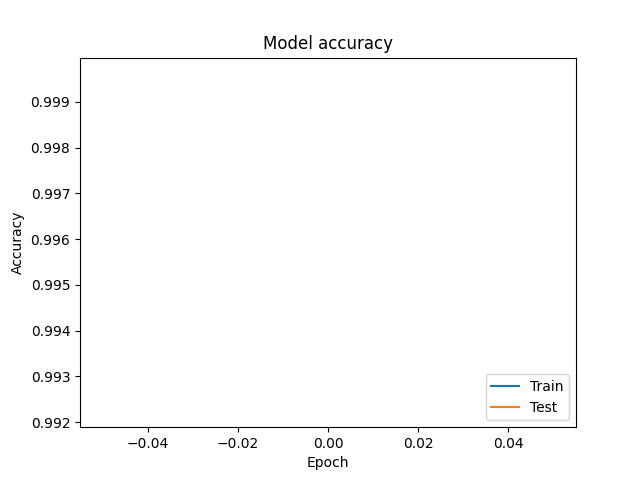
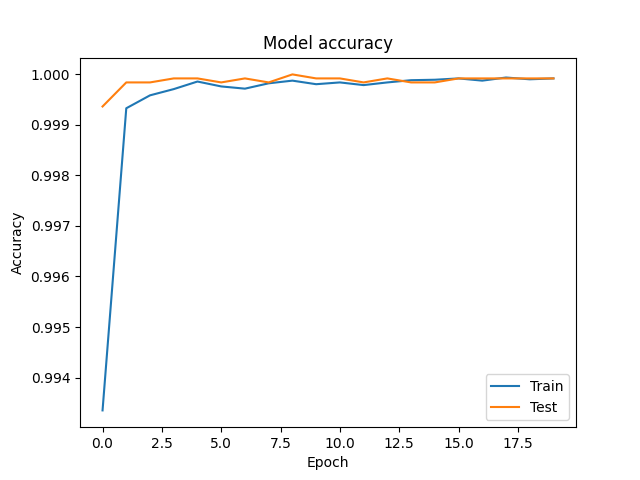
Updated formatting

diff --git a/IDS.py b/IDS.py
@@ -166,7 +166,7 @@ def neural_network(path, columns, rows):
     model.compile(loss='sparse_categorical_crossentropy', optimizer=sgd, metrics=['accuracy'])
     start = time.perf_counter()
     print("\n[+] Model training and validation\n---------------------------------------")
-    history = model.fit(trainX, trainY, epochs=1, batch_size=16, validation_split=0.1, verbose=1)
+    history = model.fit(trainX, trainY, epochs=20, batch_size=16, validation_split=0.1, verbose=1)
     print("\n[+] Model testing\n------------------------")
     score = model.evaluate(testX, testY, batch_size=16)
     end = time.perf_counter()
